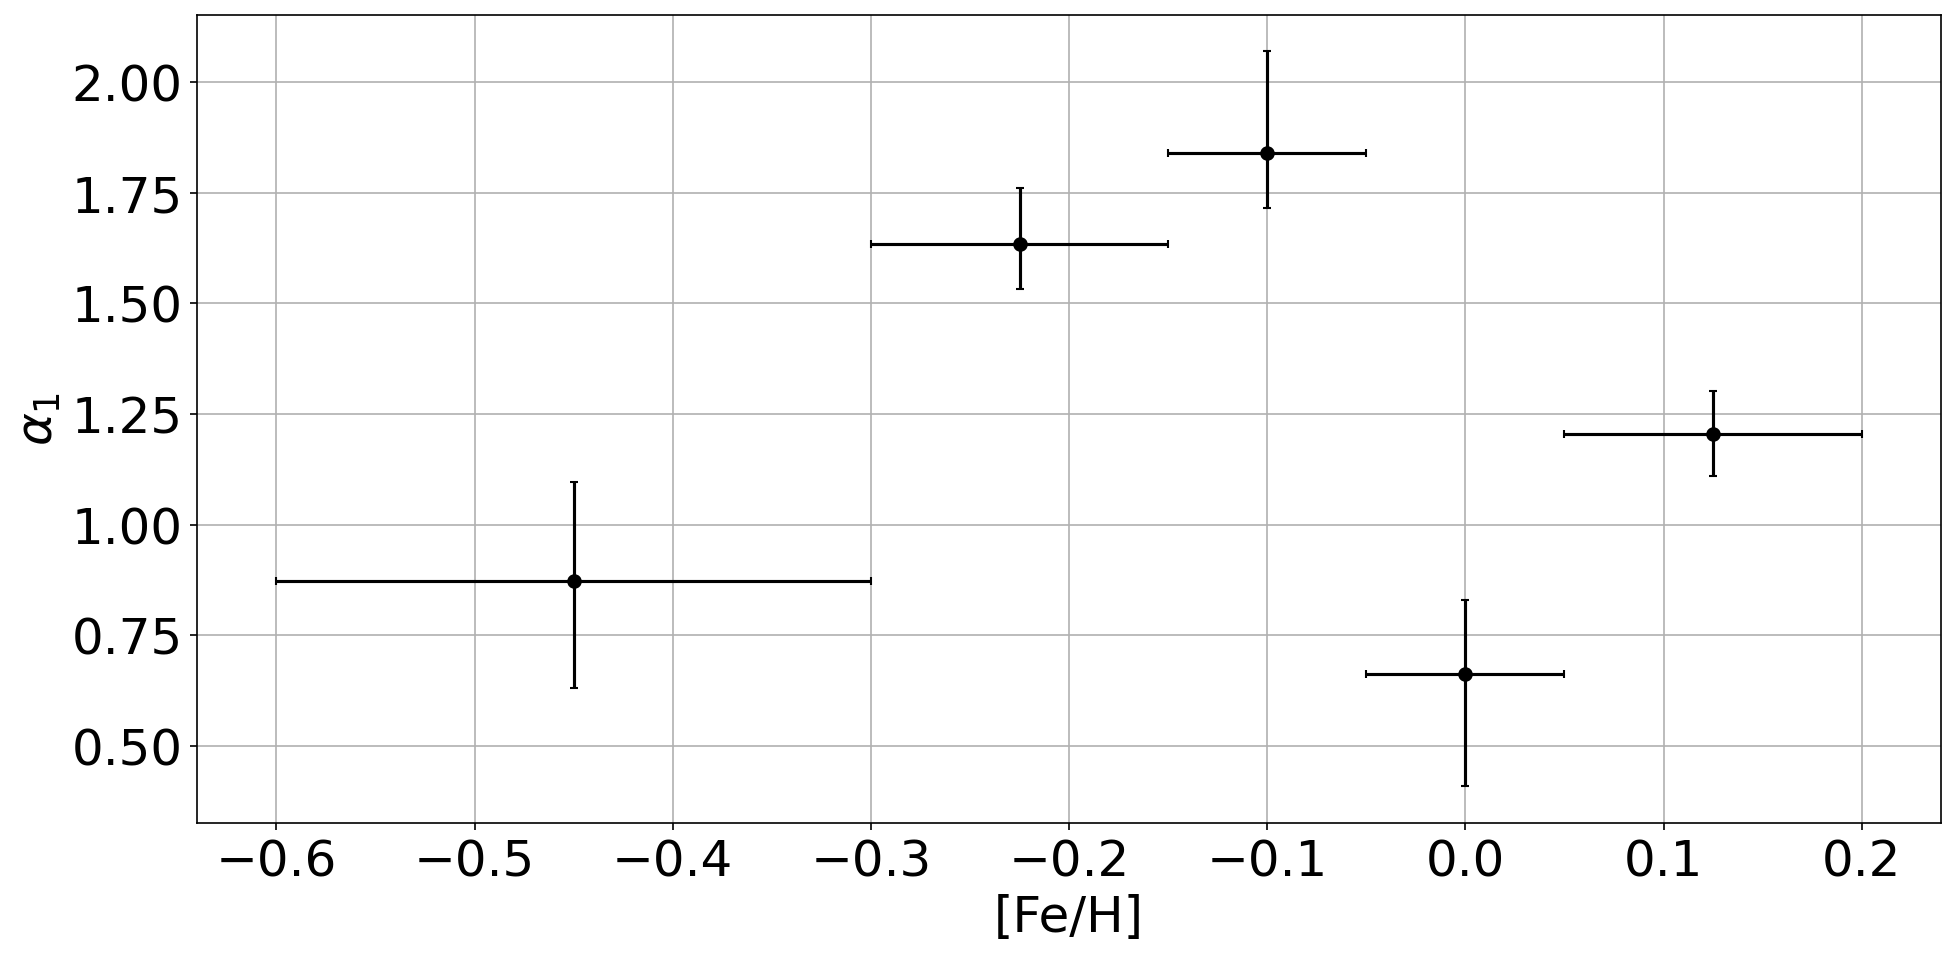
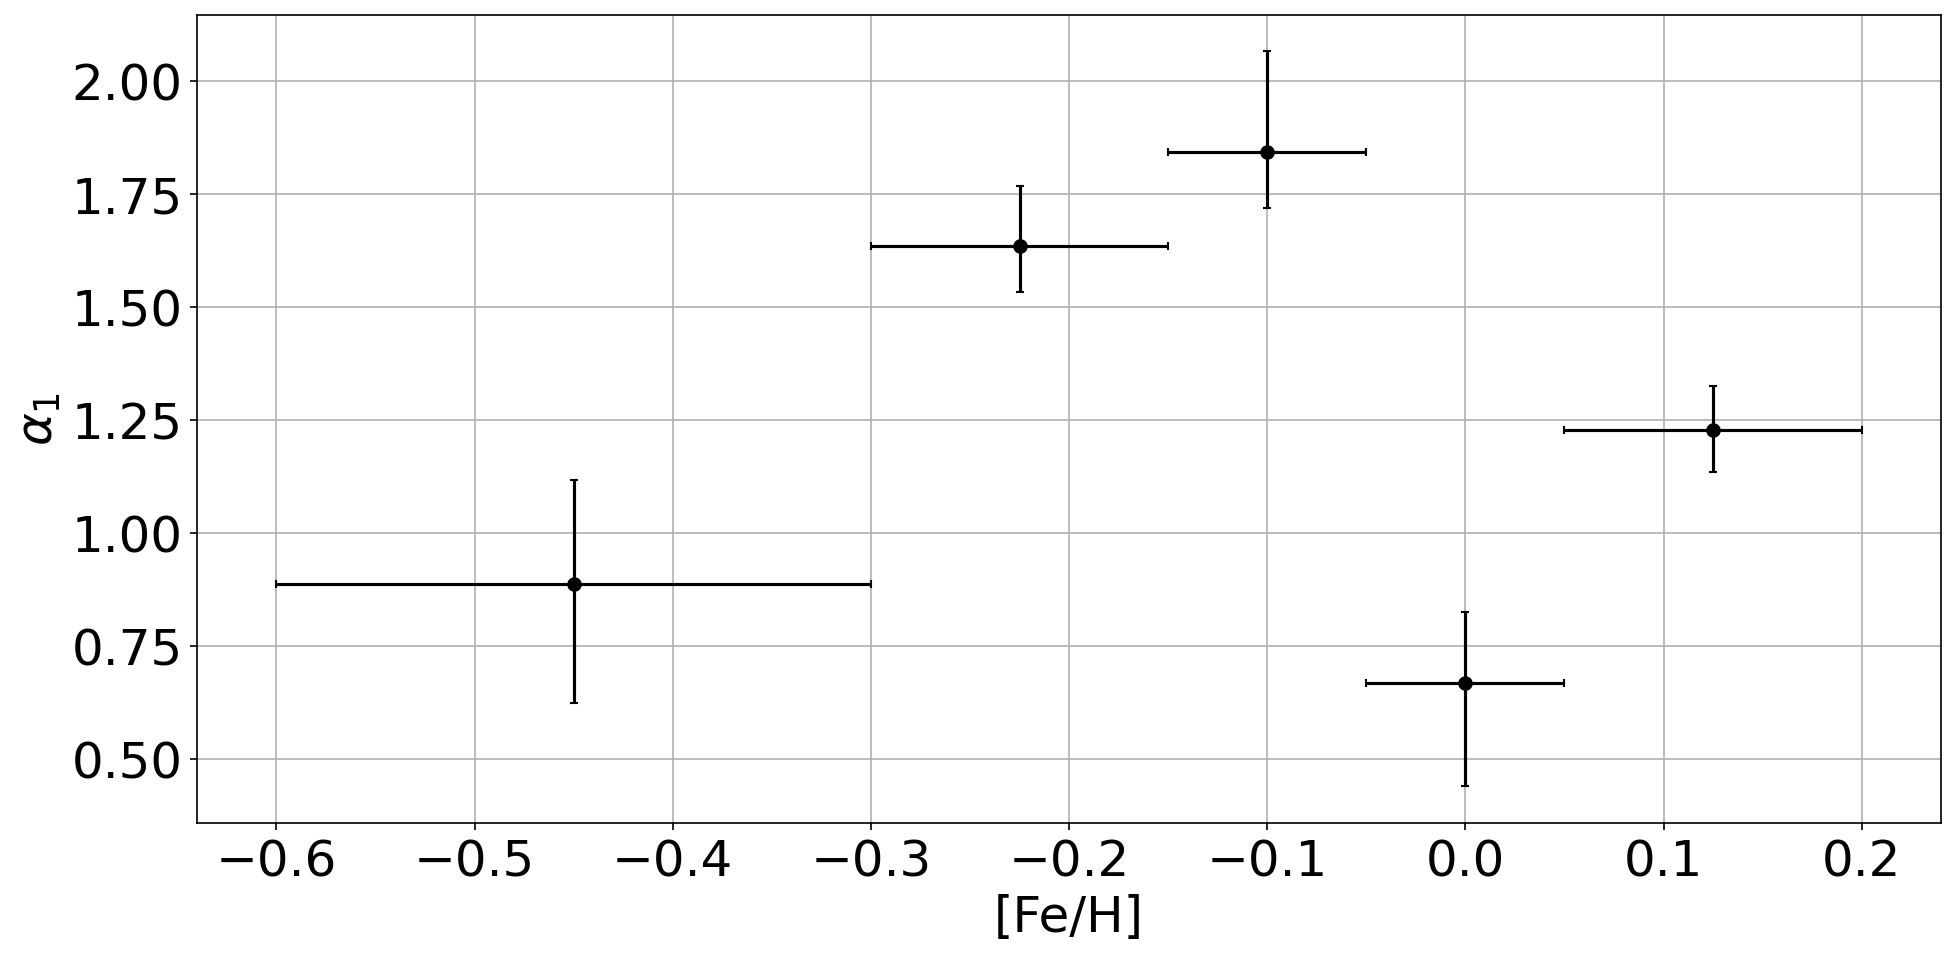
change binning

diff --git a/notebooks/forward_model_MF.py b/notebooks/forward_model_MF.py
@@ -390,7 +390,7 @@ if __name__ == '__main__':
     Nmasses = []
     params = []
 
-    mass_bins = np.linspace(0.2, 0.7, 13)
+    mass_bins = np.linspace(0.2, 0.7, 9)
 
     for i in trange(len(feh_data)):
         # get the number in HR diagram space based on draws
